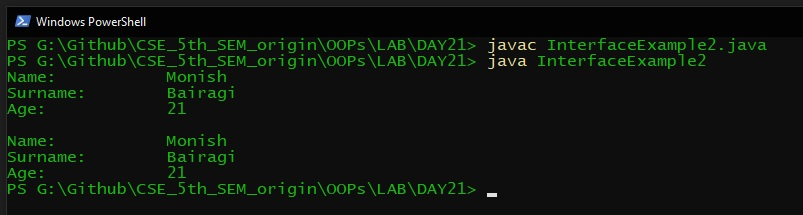
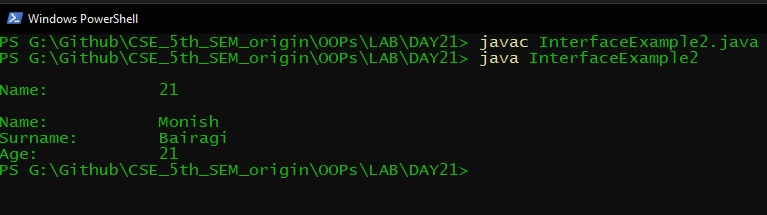
18 Feb 2021

Changed region(s): [[0.0, 0.0, 1.0, 0.9209]]

diff --git a/OOPs/DAY21/InterfaceExample2.java b/OOPs/DAY21/InterfaceExample2.java
@@ -7,7 +7,7 @@ interface FullName extends Name{
 class Age{
 	int age = 21;
 	void printAllData(){
-		System.out.println("Name:	"+age);
+		System.out.println("Name:		"+age);
 	}
 }
 class AllInfo extends Age implements FullName{
@@ -21,12 +21,16 @@ class AllInfo extends Age implements FullName{
 class InterfaceExample2{
 	public static void main(String args[]){
 		
+		Age a = new Age();
 		AllInfo n = new AllInfo();
-		n.printAllData();
+		Age ref;
 		
 		System.out.println();
-		
-		Age a = n;
+		ref = a;
 		a.printAllData();
+		
+		System.out.println();
+		ref = n;
+		n.printAllData();
 	}
 }
